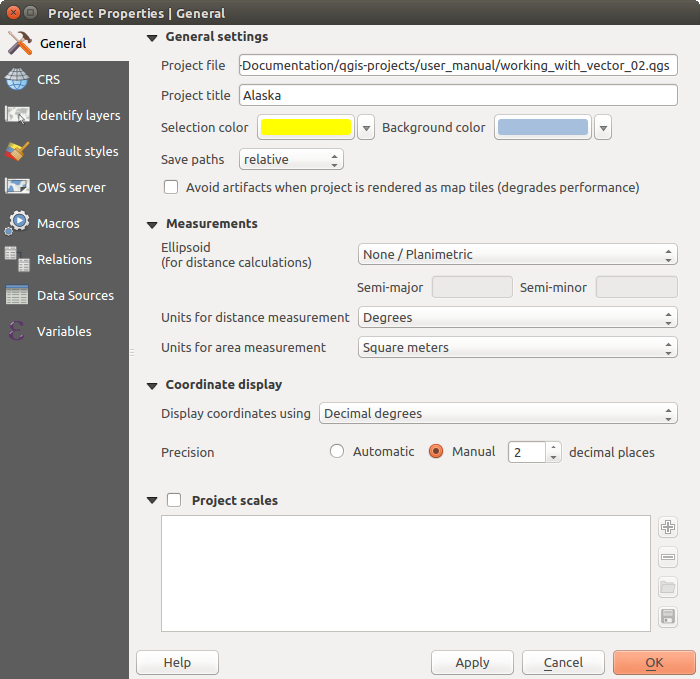
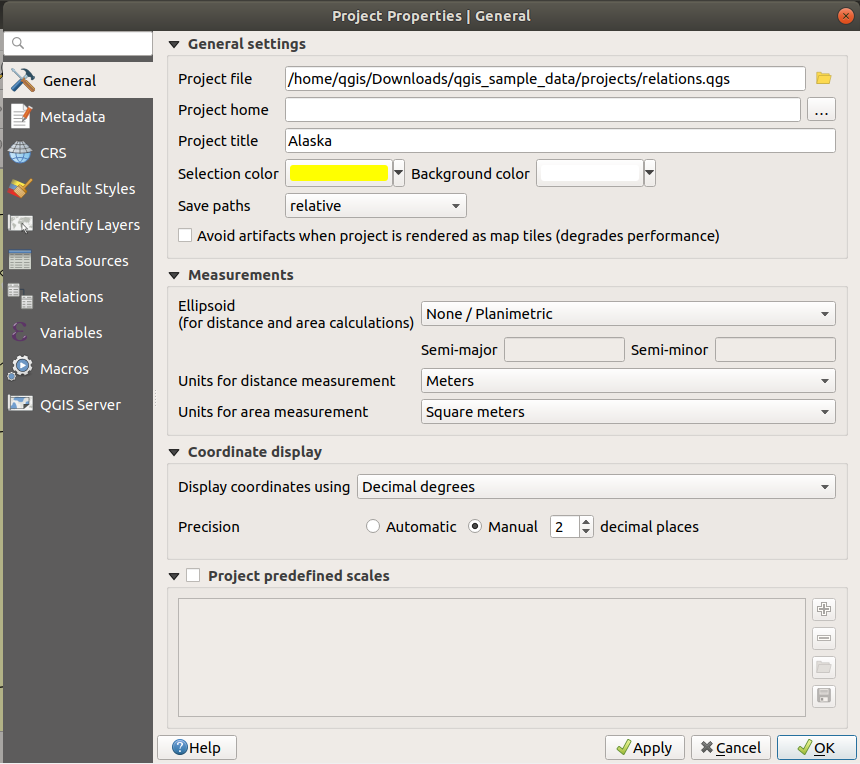
add paragraph on new project properties metadata and update images

Changed region(s): [[0.0, 0.0, 1.0, 1.0]]

diff --git a/source/docs/user_manual/introduction/qgis_configuration.rst b/source/docs/user_manual/introduction/qgis_configuration.rst
@@ -713,10 +713,11 @@ dialog described above.
 
    General tab of Project Properties dialog
 
-* The :guilabel:`CRS` tab enables you to choose the Coordinate Reference
-  System for this project, and to enable on-the-fly re-projection of raster and
-  vector layers when displaying layers from a different CRS. For more information
-  on projection's handling in QGIS, please read :ref:`label_projections` section.
+* The :guilabel:`Metadata` tab allows detailed metadata to be defined,
+  including (among the others): author, creation date, language, abstracts, 
+  categories, keywords, contact details, links, history. There is also a
+  validation functionality that checks if specific fields were filled, anyway
+  this is not enforced.
 
 * The :guilabel:`Default Styles` tab lets you control how new layers will be
   drawn when they do not have an existing :file:`.qml` style defined. You can
